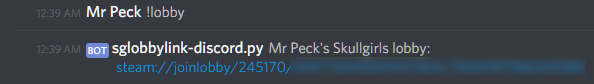
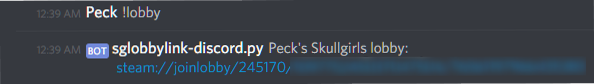
Version 1.41: Updated images (and my name)

diff --git a/main.py b/main.py
@@ -1,6 +1,6 @@
 # sglobbylink-discord.py
-# by Mr Peck (2018-2020)
-# project page: https://github.com/itsmrpeck/sglobbylink-discord.py
+# by Peck (2018-2023)
+# project page: https://github.com/ctmatthews/sglobbylink-discord.py
 
 # IMPORTANT: You must enter your Discord bot token and Steam API key in settings_sglobbylink.py or the bot won't work!
 
@@ -29,7 +29,7 @@ if steamApiKeyIMPORTANT == "PASTE_STEAM_API_KEY_HERE":
     quit()
 
 
-versionNumber = "1.4"
+versionNumber = "1.41"
 
 steamProfileUrlIdentifier = "steamcommunity.com/id"
 steamProfileUrlIdentifierLen = len(steamProfileUrlIdentifier)
@@ -178,7 +178,7 @@ async def async_get_json(url):
 async def on_ready():
     await load_steam_ids()
     client.loop.create_task(clear_request_counts_once_per_day())
-    print("LOADED: sglobbylink-discord.py v" + versionNumber + " by Mr Peck.")
+    print("LOADED: sglobbylink-discord.py v" + versionNumber + " by Peck.")
 
 @client.event
 async def on_message(message):
@@ -243,7 +243,7 @@ async def on_message(message):
 
     # actually execute the command
     if botCmd == LobbyBotCommand.HELP:
-        await message.channel.send("Hello, I am sglobbylink-discord.py v" + versionNumber + " by Mr Peck.\n\nCommands:\n- `!lobby`: posts the link to your current Steam lobby.\n- `!steamid`: tells the bot what your Steam profile is. You can " + get_steam_id_instructions())
+        await message.channel.send("Hello, I am sglobbylink-discord.py v" + versionNumber + " by Peck.\n\nCommands:\n- `!lobby`: posts the link to your current Steam lobby.\n- `!steamid`: tells the bot what your Steam profile is. You can " + get_steam_id_instructions())
         if check_if_steam_url_image_can_be_posted_and_update_timestamp_if_true():
             await message.channel.send("", file=discord.File("steam_url_instructions.jpg"))
         return

diff --git a/settings_sglobbylink.py b/settings_sglobbylink.py
@@ -1,6 +1,6 @@
 # sglobbylink-discord.py
-# by Mr Peck (2018)
-# project page: https://github.com/itsmrpeck/sglobbylink-discord.py
+# by Peck (2018-2023)
+# project page: https://github.com/ctmatthews/sglobbylink-discord.py
 
 ######################################
 ####### API KEYS:
